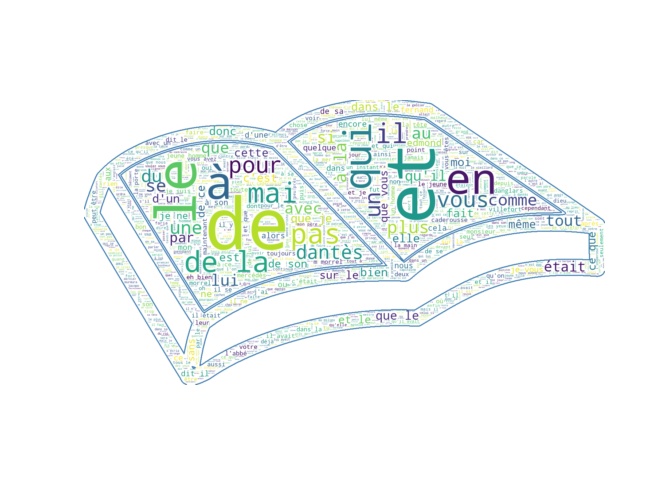
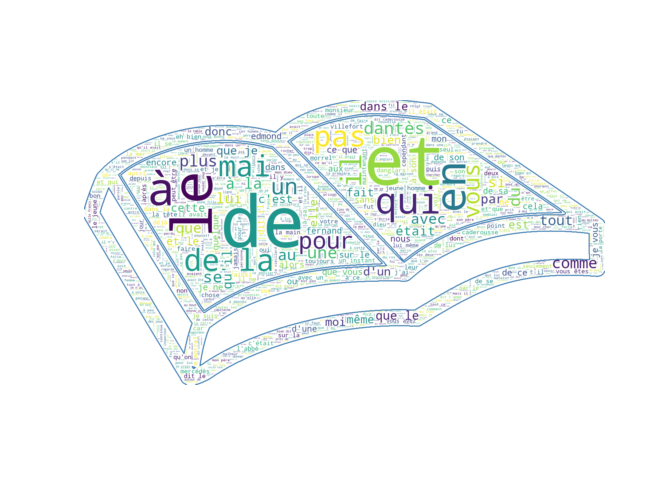
update

Changed region(s): [[0.125, 0.1875, 0.9062, 0.8125]]

diff --git a/content/modelisation/7_nlp/index.md b/content/modelisation/7_nlp/index.md
@@ -45,6 +45,26 @@ est de télécharger avec le module `urllib` le fichier texte et le retravailler
 légèrement pour ne conserver que le corpus du livre. 
 
 
+```python
+from urllib import request
+
+url = "https://www.gutenberg.org/ebooks/17989.txt.utf-8"
+response = request.urlopen(url)
+raw = response.read().decode('utf8')
+dumas = raw.split("Produced by Chuck Greif and www.ebooksgratuits.com")[1].split("End of the Project Gutenberg EBook")[0]
+
+import re
+
+def clean_text(text):
+    text = text.lower() # mettre les mots en minuscule
+    text = " ".join(text.split())
+    return text
+
+dumas = clean_text(dumas)
+
+dumas[10000:10500]
+```
+
 ```
 ## " mes yeux. --vous avez donc vu l'empereur aussi? --il est entré chez le maréchal pendant que j'y étais. --et vous lui avez parlé? --c'est-à-dire que c'est lui qui m'a parlé, monsieur, dit dantès en souriant. --et que vous a-t-il dit? --il m'a fait des questions sur le bâtiment, sur l'époque de son départ pour marseille, sur la route qu'il avait suivie et sur la cargaison qu'il portait. je crois que s'il eût été vide, et que j'en eusse été le maître, son intention eût été de l'acheter; mais je lu"
 ```
@@ -94,8 +114,32 @@ avec le module `wordclou` qui permet même d'ajuster la forme du nuage à
 une image:
 
 
+```python
+import wordcloud
+import numpy as np
+import io
+import requests
+import PIL
+import matplotlib.pyplot as plt
+
+img = "https://raw.githubusercontent.com/linogaliana/python-datascientist/master/content/modelisation/7_nlp/book.png"
+book_mask = np.array(PIL.Image.open(io.BytesIO(requests.get(img).content)))
+
+def make_wordcloud(corpus):
+    wc = wordcloud.WordCloud(background_color="white", max_words=2000, mask=book_mask, contour_width=3, contour_color='steelblue')
+    wc.generate(corpus)
+    return wc
+
+plt.imshow(make_wordcloud(dumas), interpolation='bilinear')
+plt.axis("off")
+```
+
 ```
 ## (-0.5, 1429.5, 783.5, -0.5)
+```
+
+```python
+plt.show()
 ```
 
 {{<figure src="unnamed-chunk-3-1.png" >}}
@@ -117,6 +161,13 @@ cette dernière option que l'on va choisir, plus simple pour retirer les
 *stopwords* :
 
 
+```python
+import nltk 
+
+words = nltk.word_tokenize(dumas, language='french')
+words[1030:1050]
+```
+
 ```
 ## ['dame', '!', 'que', 'voulez-vous', ',', 'monsieur', 'edmond', ',', 'reprit', "l'armateur", 'qui', 'paraissait', 'se', 'consoler', 'de', 'plus', 'en', 'plus', ',', 'nous']
 ```
@@ -126,6 +177,11 @@ peut-être faux sur le plan de la grammaire mais peu avoir un sens pour une
 analyse statistique. Il reste des signes de ponctuation qu'on peut éliminer
 avec la méthode `isalpha`: 
 
+
+```python
+words = [word for word in words if word.isalpha()]
+words[1030:1050]
+```
 
 ```
 ## ['assez', 'sombre', 'obséquieux', 'envers', 'ses', 'supérieurs', 'insolent', 'envers', 'ses', 'subordonnés', 'aussi', 'outre', 'son', 'titre', 'comptable', 'qui', 'est', 'toujours', 'un', 'motif']
@@ -153,13 +209,31 @@ Lors de la première utilisation de `NLTK`, il est nécessaire de télécharger
 les stopwords. 
 
 
+```python
+import nltk
+nltk.download('stopwords')
+```
 
 {{% /panel %}}
 
 
 
+```python
+
+from nltk.corpus import stopwords
+print(stopwords.words("french"))
+```
+
 ```
 ## ['au', 'aux', 'avec', 'ce', 'ces', 'dans', 'de', 'des', 'du', 'elle', 'en', 'et', 'eux', 'il', 'ils', 'je', 'la', 'le', 'les', 'leur', 'lui', 'ma', 'mais', 'me', 'même', 'mes', 'moi', 'mon', 'ne', 'nos', 'notre', 'nous', 'on', 'ou', 'par', 'pas', 'pour', 'qu', 'que', 'qui', 'sa', 'se', 'ses', 'son', 'sur', 'ta', 'te', 'tes', 'toi', 'ton', 'tu', 'un', 'une', 'vos', 'votre', 'vous', 'c', 'd', 'j', 'l', 'à', 'm', 'n', 's', 't', 'y', 'été', 'étée', 'étées', 'étés', 'étant', 'étante', 'étants', 'étantes', 'suis', 'es', 'est', 'sommes', 'êtes', 'sont', 'serai', 'seras', 'sera', 'serons', 'serez', 'seront', 'serais', 'serait', 'serions', 'seriez', 'seraient', 'étais', 'était', 'étions', 'étiez', 'étaient', 'fus', 'fut', 'fûmes', 'fûtes', 'furent', 'sois', 'soit', 'soyons', 'soyez', 'soient', 'fusse', 'fusses', 'fût', 'fussions', 'fussiez', 'fussent', 'ayant', 'ayante', 'ayantes', 'ayants', 'eu', 'eue', 'eues', 'eus', 'ai', 'as', 'avons', 'avez', 'ont', 'aurai', 'auras', 'aura', 'aurons', 'aurez', 'auront', 'aurais', 'aurait', 'aurions', 'auriez', 'auraient', 'avais', 'avait', 'avions', 'aviez', 'avaient', 'eut', 'eûmes', 'eûtes', 'eurent', 'aie', 'aies', 'ait', 'ayons', 'ayez', 'aient', 'eusse', 'eusses', 'eût', 'eussions', 'eussiez', 'eussent']
+```
+
+```python
+stop_words = set(stopwords.words('french'))
+
+
+words = [w for w in words if not w in stop_words]
+print(words[1030:1050])
 ```
 
 ```
@@ -171,8 +245,19 @@ de sens commencent à se dégager, notamment les noms des personnes
 (Fernand, Mercédès, Villefort, etc.)
 
 
+```python
+wc = make_wordcloud(' '.join(words))
+
+plt.imshow(wc, interpolation='bilinear')
+plt.axis("off")
+```
+
 ```
 ## (-0.5, 1429.5, 783.5, -0.5)
+```
+
+```python
+plt.show()
 ```
 
 {{<figure src="unnamed-chunk-8-1.png" >}}
@@ -208,6 +293,14 @@ pour l'ordinateur et le modélisateur. Il existe plusieurs algorithmes de
 *Snowball Stemming Algorithm*. Nous pouvons utiliser ce dernier en Français:
 
 
+```python
+from nltk.stem.snowball import SnowballStemmer
+stemmer = SnowballStemmer(language='french')
+
+stemmed = [stemmer.stem(word) for word in words]
+print(stemmed[1030:1050])
+```
+
 ```
 ## ['celui', 'dantes', 'a', 'dépos', 'pass', 'comment', 'paquet', 'dépos', 'danglar', 'roug', 'pass', 'dev', 'port', 'capitain', 'entrouvert', 'vu', 'remettr', 'paquet', 'cet', 'lettr']
 ```
@@ -231,6 +324,13 @@ des librairies `Python` a extraire du sens d'un texte. La librairie
 être pratique pour extraire rapidement certains personnages de notre oeuvre
 
 
+```python
+# from spacy import displacy
+# 
+# nlp = spacy.load("fr_core_news_sm")
+# doc = nlp(dumas)
+# displacy.render(doc, style="ent", jupyter=True)
+```
 
 
 ## Représentation d'un texte sous forme vectorielle
